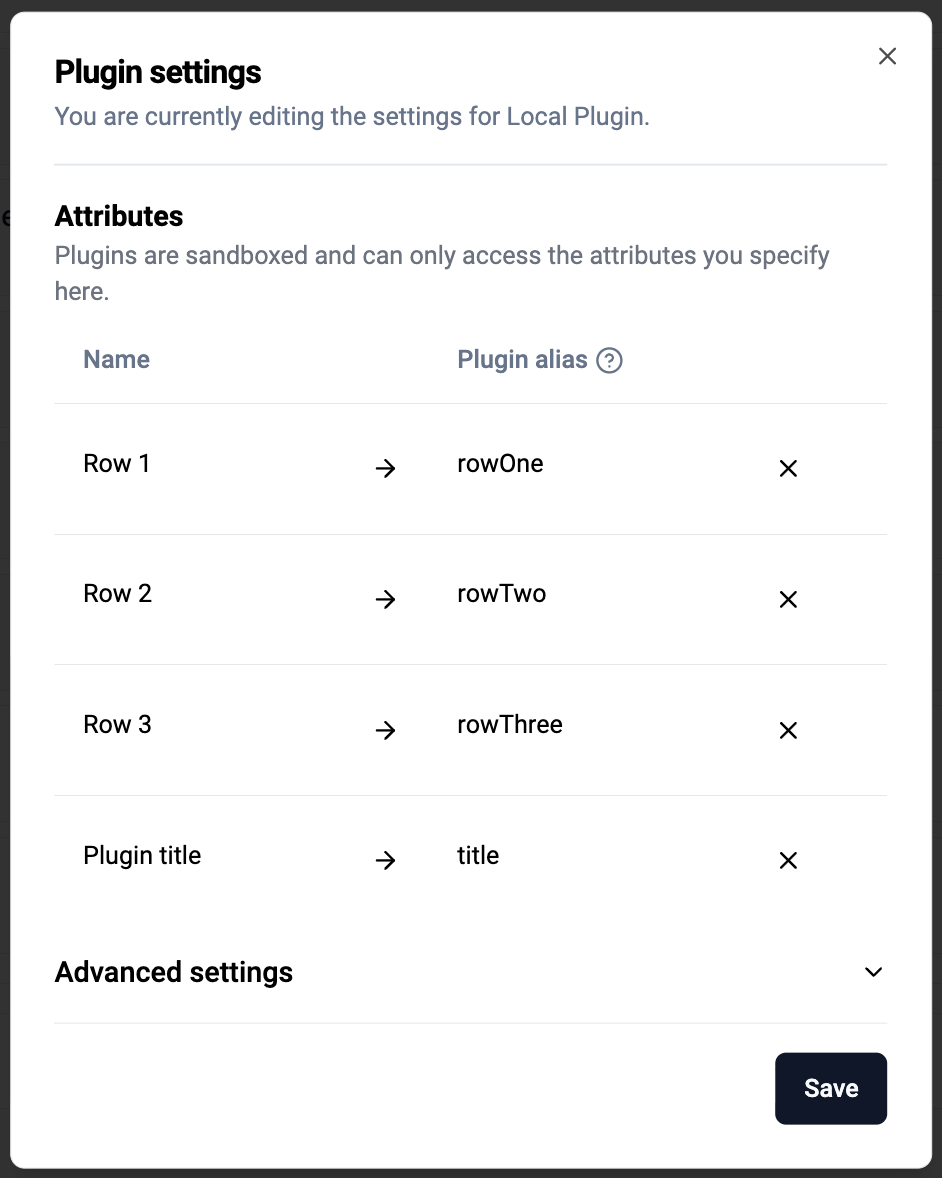
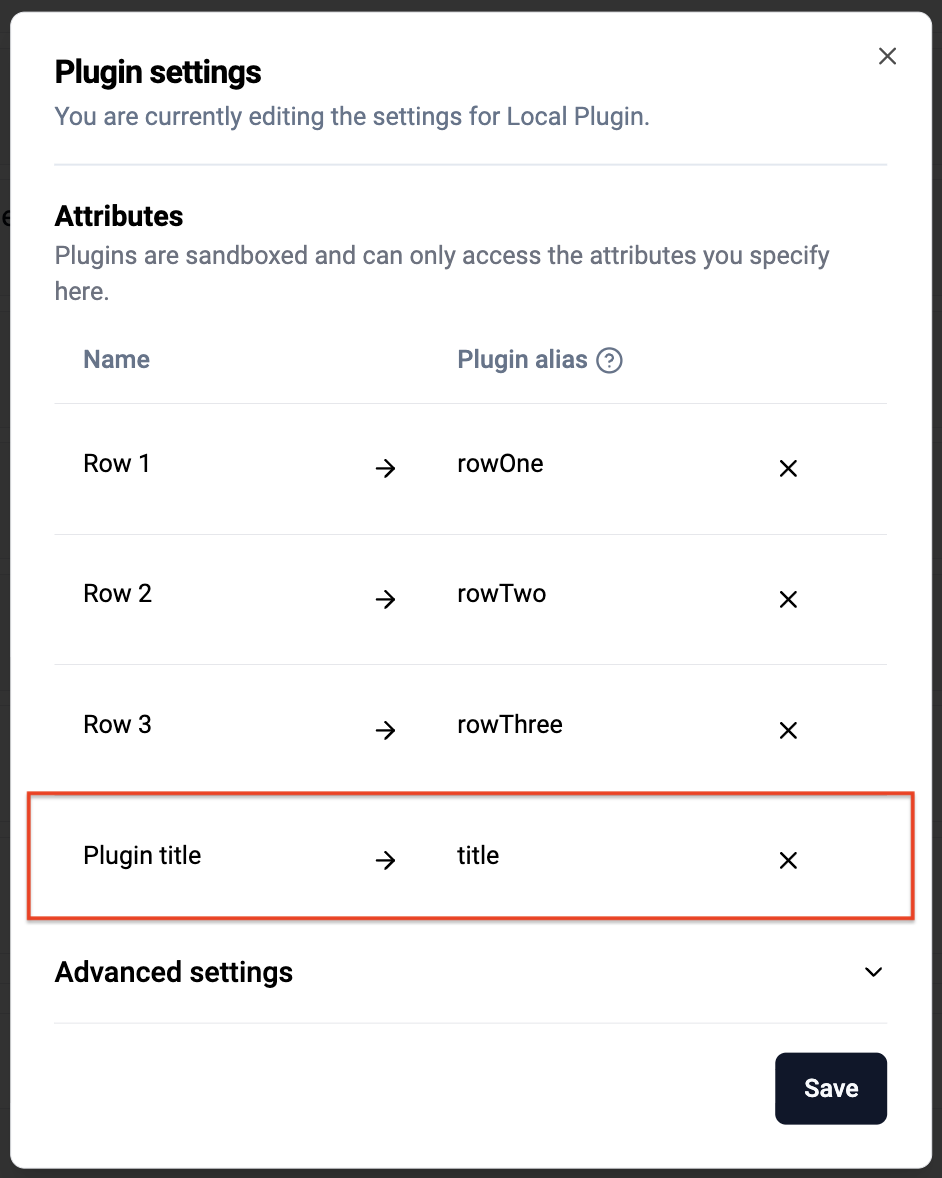
update docs

Changed region(s): [[0.0, 0.6723, 0.9851, 0.7946]]

diff --git a/README.md b/README.md
@@ -1,6 +1,6 @@
 # Matrix Select Plugin
 
-This is a custom form field plugin for Capture that renders multiple fields sharing the same option set as a matrix table. The plugin supports single select (radio buttons) and multi select (checkboxes).
+This is a custom form field plugin for the Capture app that renders multiple fields sharing the same option set as a matrix table. The plugin supports single select (radio buttons) and multi select (checkboxes).
 
 | Part        | Meaning                                                    |
 | ----------- | ---------------------------------------------------------- |
@@ -22,7 +22,7 @@ This is a custom form field plugin for Capture that renders multiple fields shar
 
 The plugin receives `fieldsMetadata` and `values` from the host form.
 
-1. Filters fields that include an `optionSet`
+1. Filters fields that include an option set
 2. Validates that all the fields's optionsets are the same
 3. Optionally sets a title on the form if supplied as part of fieldsMetaData
 4. Uses the first field’s option set to build table columns
@@ -43,17 +43,18 @@ Use the Tracker Plugin Configurator app to configure the plugin.
 
 1. Install the Tracker Plugin Configurator app from the App Hub and open it.
 2. Select the page for form field.
-3. Select the program you want to configure the plugin for.
-4. Click "Add element" and select the "Matrix Select Plugin" from the list of plugins.
-5. Drag and drop the plugin to where you want it to be displayed in the form.
-6. Click on the "Edit settings" icon to configure the fields that will be used in the matrix.
-7. Save.
+3. Select the configuration context.
+4. Click "Add configuration"
+5. Click "Add element" and select the "Matrix Select Plugin" from the list of plugins.
+6. Drag and drop the plugin to where you want it to be displayed in the form.
+7. Click on the "Edit settings" icon to configure the fields that will be used in the matrix.
+8. Save.
 
 ### Requirements
 
 Fields passed to the plugin must:
 
-- Have an `optionSet`
+- Have an option set
 - Share the same options (same option set)
 
 If these requirements are not met, the plugin will not be able to render the matrix and will display an error message.
@@ -62,7 +63,7 @@ If these requirements are not met, the plugin will not be able to render the mat
 
 You can supply a field whose value is used as the plugin title:
 
-1. If not already present, you can add a data element on the form with the title text you wish to use.
+1. If not already present, you can add a data element or tracked entity attribute on the form with the title text you wish to use.
 2. In the Tracker Plugin Configurator, include that field in the plugin inputs.
 3. Set its alias to `title`. See photo below.
 
@@ -77,3 +78,5 @@ If you have existing fields that are no longer needed because they are now repla
 3. Select "dataEntryForms" from the list
 4. Delete the fields you want to remove by deleting them from the code on the right hand side.
 5. Click "Save changes".
+
+<img src="docs/resources/images/remove-redundant-fields.png" alt="Removing redundant fields in Datastore Management" width="600" />